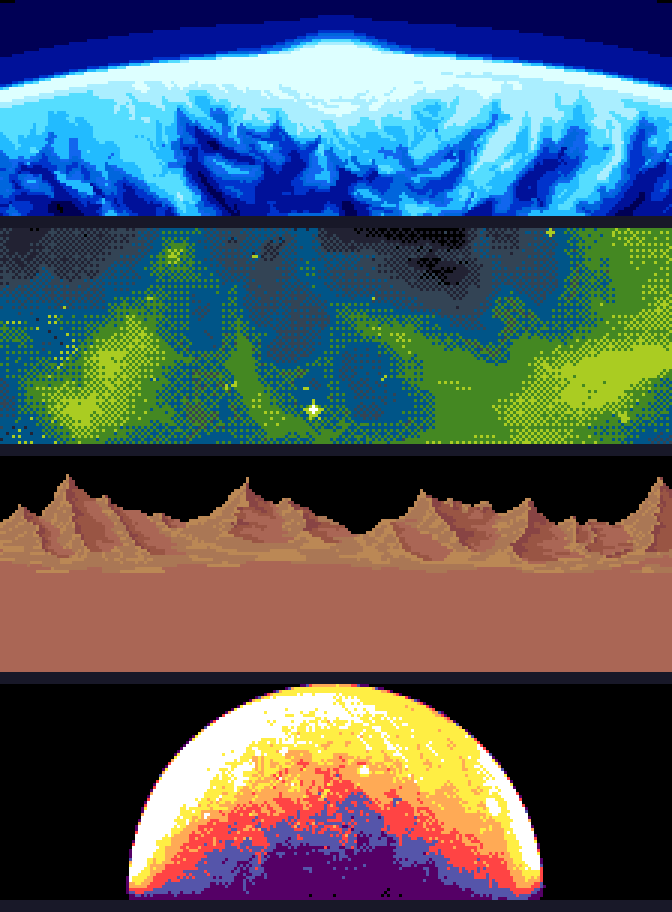
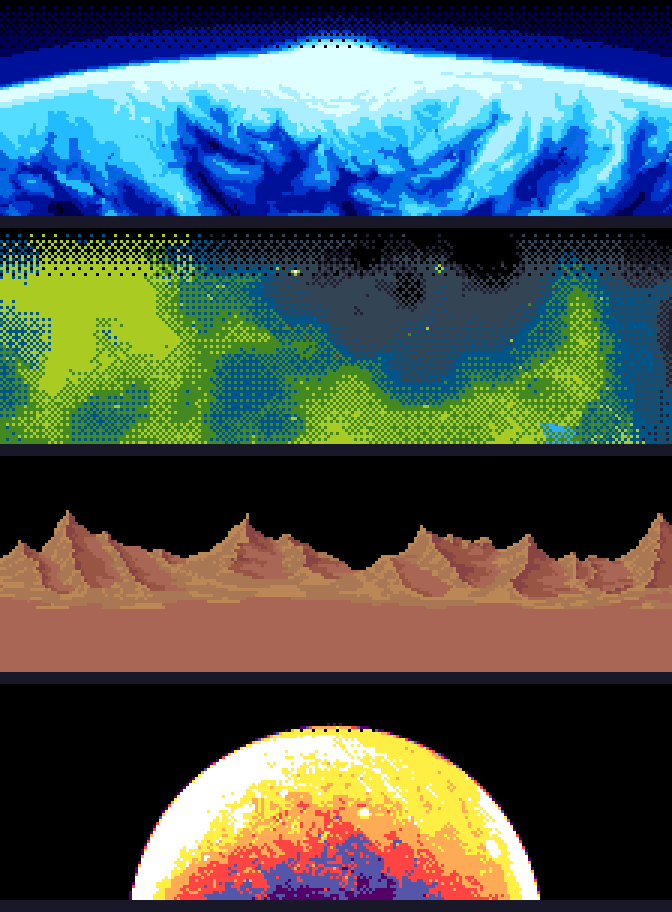
feat(demos): GALAGA -- the horizons fade in from the sky
With the owner's leave to edit the backdrops, tools/mkgalaga.py dithers
each band's first sixteen rows into black on a 4 x 4 Bayer matrix, in
place of palette steps (which drew stripes) or hunting for windows
already dark along their top. The nebula gets its greenest window back.

diff --git a/tools/mkgalaga.py b/tools/mkgalaga.py
@@ -392,16 +392,19 @@ GLYPHS = "0123456789ABCDEFGHIJKLMNOPQRSTUVWXYZ-%.!@# "
 # the palette's own, so the stars, the bombs, the explosions and the beam
 # look the same over it, and whose last eight are the band's: the game's
 # raster split writes them a row above the band and puts the arcade's
-# back at the vertical blank. Each window is chosen with dark space along
-# its top, so the band rises out of the sky rather than starting on a
+# back at the vertical blank. **The one change made to the art's pixels**,
+# by the owner's leave: the band's first FADE rows are dithered into black
+# on a 4 x 4 Bayer matrix, a sixteenth more of each row kept than the row
+# above, so the horizon rises out of the sky rather than starting on a
 # line.
-BAND_Y, BAND_H = 168, 72
+BAND_Y, BAND_H, FADE = 168, 72, 16
+BAYER = [[0, 8, 2, 10], [12, 4, 14, 6], [3, 11, 1, 9], [15, 7, 13, 5]]
 BACKDROPS = [
     # file, reduction, and the band's top-left in the reduced picture
     ("chikyuu_16_edge_0.png", 1, 16, 146),
-    ("green_nebula_arne16_-_512x512_0.png", 1, 240, 366),
-    ("rocky-far-mountains_0.png", 5, 16, 44),
-    ("planet-only-alt2-alpha.png", 2, -16, 36),
+    ("green_nebula_arne16_-_512x512_0.png", 1, 70, 150),
+    ("rocky-far-mountains_0.png", 5, 16, 32),
+    ("planet-only-alt2-alpha.png", 2, -16, 22),
 ]
 
 
@@ -458,6 +461,10 @@ def backdrop(entry):
                 cache[v] = min(range(16), key=lambda k: (sum((p - q) ** 2 for p, q in zip(c, rgbs[k])), k))
             o.append(cache[v])
         out.append(o)
+    for y in range(FADE):
+        for x in range(224):
+            if BAYER[y % 4][x % 4] >= y * 16 // FADE:
+                out[y][x] = 0
     return pal, out
 
 

diff --git a/assets/galaga/README.md b/assets/galaga/README.md
@@ -31,5 +31,11 @@ OpenGameArt on 13 September 2026, with the owner's consent:
 | `backdrops/rocky-far-mountains_0.png` | [Rocky desert landscape (layered, looping)](https://opengameart.org/content/rocky-desert-landscape-layered-looping), from Quantiset's [Mars background](https://opengameart.org/content/mars-background-pixel-art) (CC0) | Emcee Flesher | CC0 |
 | `backdrops/stars-and-planet-alt2_0.png`, `backdrops/planet-only-alt2-alpha.png` | [Space Junkyard Environment](https://opengameart.org/content/super-dead-space-gunner-merc-redux-space-junkyard-environment) | Emcee Flesher; the planet an enhanced image by Gabriel Fiset (CC-BY) based on images courtesy of NASA/JPL-Caltech/SwRI/MSSS; the nebula after Daniel Cook (CC-BY) | [CC-BY 4.0](https://creativecommons.org/licenses/by/4.0/) |
 
+`tools/mkgalaga.py` crops each to a band of 224 x 72 (the Mars layer
+after an exact fifth, the gold giant after an exact half), puts it in
+sixteen colours, and makes one change to the pixels, which the owner
+allowed: the band's first sixteen rows are dithered into black, so it
+rises out of the sky.
+
 The credits the two attribution licences ask for are shown in the game
 and in [docs/14-demos.md](../../docs/14-demos.md).

diff --git a/docs/01-decisions.md b/docs/01-decisions.md
@@ -7068,7 +7068,10 @@ compare matches the line counter's low byte, so it also fires 256 lines
 higher and that first match is let go. The machine's palette log holds
 it to raw line 334 and line 480 exactly. The band's pixels are kept in
 RAM at `$D000` as the bitmap holds them, for the stars to stay behind
-and for what draws over the band to put back. **Rejected**: a fade from
-space over the band's first rows, the split stepping the eight through a
-quarter, a half and three quarters -- at twelve bits it drew stripes --
-in favour of windows of the art with dark space along their top.
+and for what draws over the band to put back. The band rises out of the sky
+through its first sixteen rows dithered into black on a 4 x 4 Bayer
+matrix -- a change to the art's pixels the owner allowed. **Rejected**:
+the same fade done by the split, stepping the eight through a quarter, a
+half and three quarters of their brightness, which at twelve bits drew
+stripes; and hunting each picture for a window already dark along its
+top, which found them for two of the four.
